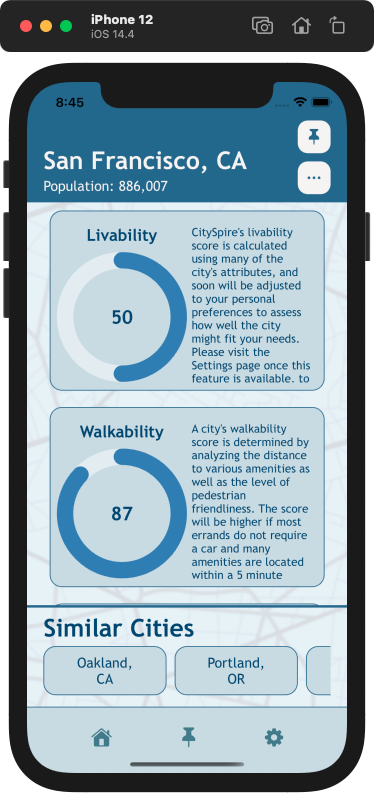
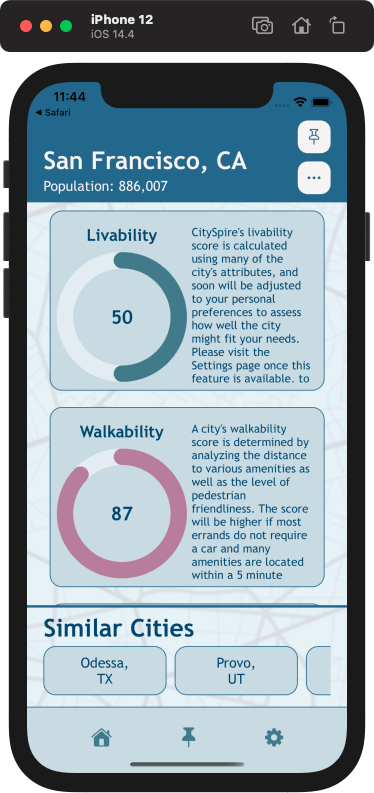
updated charts with new colors

diff --git a/labs-ios-starter/CityDashboardViewController.swift b/labs-ios-starter/CityDashboardViewController.swift
@@ -200,7 +200,7 @@ class CityDashboardViewController: UIViewController {
         if let livability = city.livability,
            livability != 0,
            let description = propertyDescriptionDictionary["livability"] {
-            let property = PropertyData(propertyLabel: "Livability", valueLabel: "\(livability)", percentage: Float(livability) / 100, propertyDescription: description)
+            let property = PropertyData(propertyLabel: "Livability", valueLabel: "\(livability)", percentage: Float(livability) / 100, propertyDescription: description, color: UIColor(named: "AccentGreen")!)
             propertyData.append(property)
         }
         
@@ -208,7 +208,7 @@ class CityDashboardViewController: UIViewController {
         if let walkability = city.walkability,
            walkability != 0,
            let description = propertyDescriptionDictionary["walkability"] {
-            let property = PropertyData(propertyLabel: "Walkability", valueLabel: "\(walkability)", percentage: Float(walkability) / 100, propertyDescription: description)
+            let property = PropertyData(propertyLabel: "Walkability", valueLabel: "\(walkability)", percentage: Float(walkability) / 100, propertyDescription: description, color: UIColor(named: "PieChartPurple")!)
             propertyData.append(property)
         }
         
@@ -216,7 +216,7 @@ class CityDashboardViewController: UIViewController {
         if let diversity = city.diversityIndex,
            diversity != 0,
            let description = propertyDescriptionDictionary["diversityIndex"] {
-            let property = PropertyData(propertyLabel: "Diversity Index", valueLabel: "\(diversity)", percentage: Float(diversity) / 100, propertyDescription: description)
+            let property = PropertyData(propertyLabel: "Diversity Index", valueLabel: "\(diversity)", percentage: Float(diversity) / 100, propertyDescription: description, color: UIColor(named: "PieChartYellow")!)
             propertyData.append(property)
         }
         
@@ -224,7 +224,7 @@ class CityDashboardViewController: UIViewController {
         if let crime = city.crime,
            let crimeScore = controller?.stringToInt(word: crime),
            let description = propertyDescriptionDictionary["crime"] {
-            let property = PropertyData(propertyLabel: "Crime", valueLabel: "\(crime)", percentage: Float(crimeScore) / 100, propertyDescription: description)
+            let property = PropertyData(propertyLabel: "Crime", valueLabel: "\(crime)", percentage: Float(crimeScore) / 100, propertyDescription: description, color: UIColor(named: "PieChartRed")!)
             propertyData.append(property)
         }
         
@@ -232,7 +232,7 @@ class CityDashboardViewController: UIViewController {
         if let airQuality = city.airQuality,
            let airScore = controller?.stringToInt(word: airQuality),
            let description = propertyDescriptionDictionary["airQuality"] {
-            let property = PropertyData(propertyLabel: "Air Quality", valueLabel: "\(airQuality)", percentage: Float(airScore) / 100, propertyDescription: description)
+            let property = PropertyData(propertyLabel: "Air Quality", valueLabel: "\(airQuality)", percentage: Float(airScore) / 100, propertyDescription: description, color: UIColor(named: "PieChartBlue")!)
             propertyData.append(property)
         }
         
@@ -240,7 +240,7 @@ class CityDashboardViewController: UIViewController {
         if let rentalPrice = city.rentalPrice,
            rentalPrice != 0,
            let description = propertyDescriptionDictionary["rentalPrice"] {
-            let property = PropertyData(propertyLabel: "Rental Price", valueLabel: "$\(rentalPrice)", percentage: Float(rentalPrice) / 3600, propertyDescription: description)
+            let property = PropertyData(propertyLabel: "Rental Price", valueLabel: "$\(rentalPrice)", percentage: Float(rentalPrice) / 3600, propertyDescription: description, color: UIColor(named: "PieChartGreen")!)
             propertyData.append(property)
         }
     }
@@ -303,6 +303,7 @@ extension CityDashboardViewController: UICollectionViewDataSource, UICollectionV
             cell.propertyValueLabel.text = propertyData[indexPath.item].valueLabel
             cell.progressBarView.setTrackedProgressWithAnimation(duration: 1.0, value: propertyData[indexPath.item].percentage)
             cell.propertyDescriptionTextView.text = propertyData[indexPath.item].propertyDescription
+            cell.color = propertyData[indexPath.item].color
             cell.layer.cornerRadius = 15
             cell.layer.borderColor = UIColor(named: "DarkishBlue")?.cgColor
             cell.layer.borderWidth = 1

diff --git a/labs-ios-starter/HomeScreen/SettingsViewController.swift b/labs-ios-starter/HomeScreen/SettingsViewController.swift
@@ -11,6 +11,7 @@ import UIKit
 class SettingsViewController: UIViewController {
     
     // MARK: - Outlets
+    
     @IBOutlet weak var pieChartView: PieChartView!
     @IBOutlet weak var walkabilityPercentageLabel: UILabel!
     @IBOutlet weak var rentalPricePercentageLabel: UILabel!
@@ -22,17 +23,17 @@ class SettingsViewController: UIViewController {
     
     var tabDelegate: TabButtonDelegate?
     var settings: [CGFloat] = [20, 20, 20, 20, 20]
-    let colors: [UIColor] = [UIColor(named: "PieChartRed")!, UIColor(named: "PieChartPurple")!, UIColor(named: "PieChartGreen")!, UIColor(named: "PieChartBlue")!, UIColor(named: "PieChartYellow")!]
+    let colors: [UIColor] = [UIColor(named: "PieChartPurple")!, UIColor(named: "PieChartGreen")!, UIColor(named: "PieChartRed")!, UIColor(named: "PieChartYellow")!, UIColor(named: "PieChartBlue")!]
     let defaults = UserDefaults.standard
+    
     // MARK: - View Lifecycle
 
     override func viewDidLoad() {
         super.viewDidLoad()
-        setUpViews()
     }
     
     override func viewWillAppear(_ animated: Bool) {
-        super.viewWillAppear(true)
+        super.viewWillAppear(animated)
         setUpViews()
     }
     
@@ -207,7 +208,9 @@ class SettingsViewController: UIViewController {
         }
     }
     
-    func updatePieChartValues() {
+    // MARK: - Private Functions
+    
+    private func updatePieChartValues() {
         pieChartView.backgroundColor = UIColor.clear
         let chartView = PieChartView()
         var segments: [PieChartSegment] = []
@@ -221,12 +224,12 @@ class SettingsViewController: UIViewController {
         updateLabels()
     }
     
-    func resetLabels() {
+    private func resetLabels() {
         settings = [20, 20, 20, 20, 20]
         updatePieChartValues()
     }
     
-    func updateLabels() {
+    private func updateLabels() {
         let sum = CGFloat(settings.reduce(0, +))
         walkabilityPercentageLabel.text = "\(Int(settings[0] / sum * 100))%"
         rentalPricePercentageLabel.text = "\(Int(settings[1] / sum * 100))%"
@@ -235,8 +238,11 @@ class SettingsViewController: UIViewController {
         airQualityPercentageLabel.text = "\(Int(settings[4] / sum * 100))%"
     }
     
-    func setUpViews() {
-        guard let settingInts = defaults.object(forKey: "Settings") as? [Int] else { return }
+    private func setUpViews() {
+        guard let settingInts = defaults.object(forKey: "Settings") as? [Int] else {
+            updatePieChartValues()
+            return
+        }
         settings = []
         for int in settingInts {
             let float = CGFloat(int)

diff --git a/labs-ios-starter/WeatherViewController.swift b/labs-ios-starter/WeatherViewController.swift
@@ -58,7 +58,7 @@ class WeatherViewController: UIViewController {
             let position = (CGFloat(index) - 6)
             
             let lowBar = SCNBox(width: 1, height: lowHeight, length: 1.5, chamferRadius: 0.1)
-            lowBar.materials.first?.diffuse.contents = UIColor(named: "LightBlue")
+            lowBar.materials.first?.diffuse.contents = UIColor(named: "PieChartBlue")
             let lowNode = SCNNode(geometry: lowBar)
             lowNode.position = SCNVector3(position, lowYAdjust, 0)
             lowScene.rootNode.addChildNode(lowNode)
@@ -66,13 +66,13 @@ class WeatherViewController: UIViewController {
             let lowTemp = String(Int(weather.months[index].minTemp))
             let lowText = SCNText(string: lowTemp, extrusionDepth: 0)
             lowText.font = UIFont(name: "TrebuchetMS-Bold", size: 0.6)
-            lowText.materials.first?.diffuse.contents = UIColor(named: "OffWhite")
+            lowText.materials.first?.diffuse.contents = UIColor(named: "DarkBlue")
             let lowTextNode = SCNNode(geometry: lowText)
             lowTextNode.position = SCNVector3(-0.35, lowYAdjust - 2, 0.8)
             lowNode.addChildNode(lowTextNode)
             
             let highBar = SCNBox(width: 1, height: highHeight, length: 1.5, chamferRadius: 0.1)
-            highBar.materials.first?.diffuse.contents = UIColor(named: "AccentYellow")
+            highBar.materials.first?.diffuse.contents = UIColor(named: "PieChartYellow")
             let highNode = SCNNode(geometry: highBar)
             highNode.position = SCNVector3(position, (highYAdjust), 0)
             highScene.rootNode.addChildNode(highNode)
@@ -89,7 +89,7 @@ class WeatherViewController: UIViewController {
             
             let lowMonthText = SCNText(string: monthString, extrusionDepth: 0)
             lowMonthText.font = UIFont(name: "TrebuchetMS-Bold", size: 0.6)
-            lowMonthText.materials.first?.diffuse.contents = UIColor(named: "OffWhite")
+            lowMonthText.materials.first?.diffuse.contents = UIColor(named: "DarkBlue")
             let lowMonthNode = SCNNode(geometry: lowMonthText)
             lowMonthNode.position = SCNVector3(1, -lowYAdjust, 0.8)
             lowMonthNode.rotation = SCNVector4(0, 0, 1, 1.25)

diff --git a/labs-ios-starter/CircularProgressBarView.swift b/labs-ios-starter/CircularProgressBarView.swift
@@ -23,15 +23,10 @@ class CircularProgressBarView: UIView {
         createCircularPath()
     }
 
-    var untrackedProgressColor = UIColor.gray {
+    var untrackedProgressColor = UIColor(named: "PalestBlue")?.cgColor
+    var trackedProgressColor = UIColor(named: "AccentGreen")?.cgColor {
         didSet {
-            untrackedProgressLayer.strokeColor = untrackedProgressColor.cgColor
-        }
-    }
-
-    var trackedProgressColor = UIColor.blue {
-        didSet {
-            trackedProgressLayer.strokeColor = trackedProgressColor.cgColor
+            trackedProgressLayer.strokeColor = trackedProgressColor
         }
     }
     
@@ -45,14 +40,14 @@ class CircularProgressBarView: UIView {
 
         untrackedProgressLayer.path = circlePath.cgPath
         untrackedProgressLayer.fillColor = UIColor.clear.cgColor
-        untrackedProgressLayer.strokeColor = UIColor(named: "PalestBlue")?.cgColor
+        untrackedProgressLayer.strokeColor = untrackedProgressColor
         untrackedProgressLayer.lineWidth = 20.0
         untrackedProgressLayer.strokeEnd = 1.0
         layer.addSublayer(untrackedProgressLayer)
         
         trackedProgressLayer.path = circlePath.cgPath
         trackedProgressLayer.fillColor = UIColor.clear.cgColor
-        trackedProgressLayer.strokeColor = trackedProgressColor.cgColor
+        trackedProgressLayer.strokeColor = trackedProgressColor
         trackedProgressLayer.lineCap = .round
         trackedProgressLayer.lineWidth = 20.0
         trackedProgressLayer.strokeEnd = 1.0
@@ -67,7 +62,7 @@ class CircularProgressBarView: UIView {
         let animation = CABasicAnimation(keyPath: "strokeEnd")
         animation.duration = duration
         animation.fromValue = 0
-        trackedProgressLayer.strokeColor = UIColor(named: "LightBlue")?.cgColor
+        trackedProgressLayer.strokeColor = trackedProgressColor
         animation.toValue = value
         animation.timingFunction = CAMediaTimingFunction(name: CAMediaTimingFunctionName.linear)
         trackedProgressLayer.strokeEnd = CGFloat(value)

diff --git a/labs-ios-starter/HousingViewController.swift b/labs-ios-starter/HousingViewController.swift
@@ -69,7 +69,7 @@ class HousingViewController: UIViewController {
             let position = ((CGFloat(index) * 2) - 5)
             
             let bar = SCNBox(width: 2, height: height, length: 1.5, chamferRadius: 0.1)
-            bar.materials.first?.diffuse.contents = UIColor(named: "LightBlue")
+            bar.materials.first?.diffuse.contents = UIColor(named: "PieChartGreen")
             let node = SCNNode(geometry: bar)
             node.position = SCNVector3(position, yAdjust, 0)
             scene.rootNode.addChildNode(node)
@@ -79,7 +79,7 @@ class HousingViewController: UIViewController {
             let priceString = "$\(price)K"
             let priceText = SCNText(string: priceString, extrusionDepth: 0)
             priceText.font = UIFont(name: "TrebuchetMS-Bold", size: 0.5)
-            priceText.materials.first?.diffuse.contents = UIColor(named: "OffWhite")
+            priceText.materials.first?.diffuse.contents = UIColor(named: "DarkBlue")
             let priceTextNode = SCNNode(geometry: priceText)
             priceTextNode.position = SCNVector3(-1.5, yAdjust - 1, 0.8)
             priceTextNode.rotation = SCNVector4(0, 0, 1, -0.75)
@@ -88,7 +88,7 @@ class HousingViewController: UIViewController {
             let bedroomString = "\(bedrooms[index])"
             let bedroomText = SCNText(string: bedroomString, extrusionDepth: 0)
             bedroomText.font = UIFont(name: "TrebuchetMS-Bold", size: 0.6)
-            bedroomText.materials.first?.diffuse.contents = UIColor(named: "OffWhite")
+            bedroomText.materials.first?.diffuse.contents = UIColor(named: "DarkBlue")
             let bedroomNode = SCNNode(geometry: bedroomText)
             bedroomNode.position = SCNVector3(-0.3, -yAdjust, 0.8)
             node.addChildNode(bedroomNode)

diff --git a/labs-ios-starter/CityDashboardCollectionViewCell.swift b/labs-ios-starter/CityDashboardCollectionViewCell.swift
@@ -17,4 +17,14 @@ class CityDashboardCollectionViewCell: UICollectionViewCell {
     @IBOutlet weak var progressBarView: CircularProgressBarView!
     @IBOutlet weak var propertyDescriptionTextView: UITextView!
     
+    // MARK: - Properties
+    
+    var color: UIColor? {
+        didSet {
+            if let colorCG = color?.cgColor {
+                progressBarView.trackedProgressColor = colorCG
+            }
+        }
+    }
+    
 }

diff --git a/labs-ios-starter/HomeScreen/PieChartView.swift b/labs-ios-starter/HomeScreen/PieChartView.swift
@@ -20,8 +20,9 @@ class PieChartView: UIView {
     }
     
     var segments = [PieChartSegment]() {
+        // re-draw view when the values get set
         didSet {
-            setNeedsDisplay() // re-draw view when the values get set
+            setNeedsDisplay()
         }
     }
     

diff --git a/labs-ios-starter/PropertyData.swift b/labs-ios-starter/PropertyData.swift
@@ -6,11 +6,12 @@
 //  Copyright © 2021 Spencer Curtis. All rights reserved.
 //
 
-import Foundation
+import UIKit
 
 struct PropertyData {
     var propertyLabel: String
     var valueLabel: String
     var percentage: Float
     var propertyDescription: String
+    var color: UIColor
 }

diff --git a/README.md b/README.md
@@ -19,6 +19,7 @@ City Spire analyzes data from cities such as populations, cost of living, rental
   <img src="https://github.com/Lambda-School-Labs/PT17_cityspire-b-ios/blob/main/Screens/WeatherScreen.png" width="300" />
   <img src="https://github.com/Lambda-School-Labs/PT17_cityspire-b-ios/blob/main/Screens/HousingScreen.png" width="300" />
   <img src="https://github.com/Lambda-School-Labs/PT17_cityspire-b-ios/blob/main/Screens/PinnedCities.png" width="300" />
+  <img src="https://github.com/Lambda-School-Labs/PT17_cityspire-b-ios/blob/main/Screens/SettingsScreen.png" width="300" />
 </p>
 
 ## UI in action
